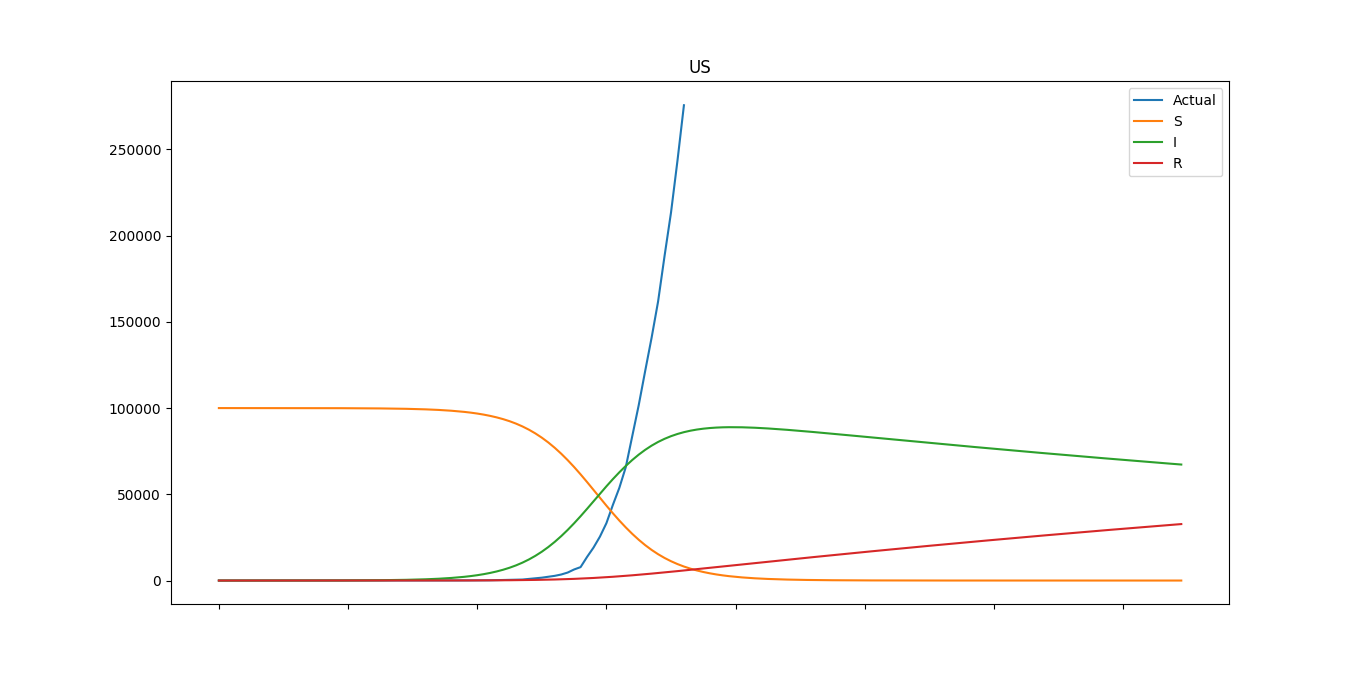
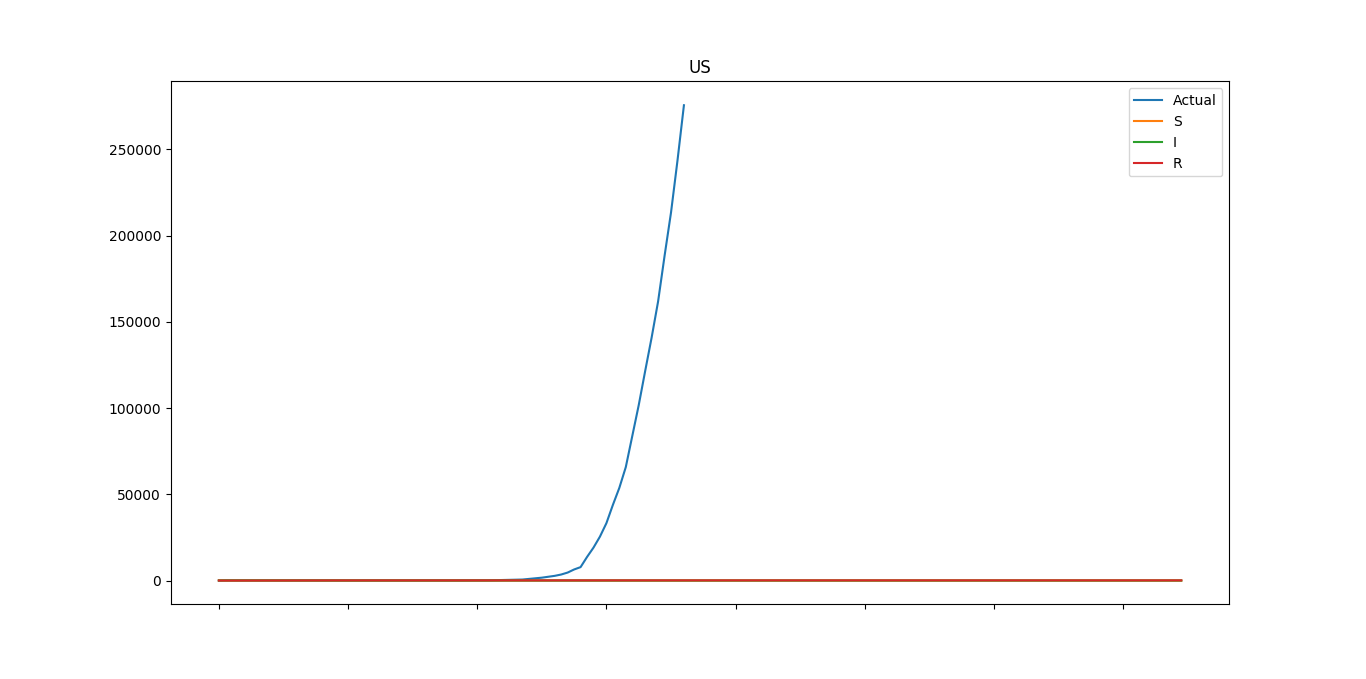
updated displaying graphs

diff --git a/covid_sim.py b/covid_sim.py
@@ -39,49 +39,40 @@ def start():
     PATH_TIME_CONFIRMED_US = os.path.join(PATH_BASE,'time_series_covid19_confirmed_US.csv')
 
     important_states = ['New York','New Jersey','Pennsylvania','California']
-    
+   
+ 
+    custom_trend_us_county(PATH_TIME_CONFIRMED_US,'Bucks','Pennsylvania','Confirmed')
+
 
     custom_trend_us(PATH_TIME_CONFIRMED_US,important_states,'Confirmed')
+    
+    custom_new_us(PATH_TIME_CONFIRMED_US,important_states)
 
     ##Extrapolation data uninformative - replacing with sir_learner
-    custom_extrapolate_us(PATH_TIME_CONFIRMED_US,important_states)
-
+    #custom_extrapolate_us(PATH_TIME_CONFIRMED_US,important_states)
+    
     custom_deathrate_global(PATH_TIME_CONFIRMED_GLOBAL,PATH_TIME_DEATHS_GLOBAL)
 
     custom_zero_global(PATH_TIME_CONFIRMED_GLOBAL)
 
-    custom_new_us(PATH_TIME_CONFIRMED_US,important_states)
-
     custom_map_us(PATH_TIME_CONFIRMED_US)
     
-    custom_fit_us(PATH_TIME_CONFIRMED_US,OUTPUT_BASE, important_states)
+    #custom_fit_us(PATH_TIME_CONFIRMED_US,OUTPUT_BASE, important_states)
+def custom_trend_us_county(path,county,state,label):
+    '''
+    Shows trend over time for one county
+    '''
+    x,y = parse_time_us_county(path,county,state)
+    graph_trend(x,y,f"{county}, {state}",label)
 
 def custom_trend_us(path,states,label):
     '''
-    Shows trend over time
+    Shows trend over time for various states
     '''
     for state in states:
         x,y = parse_time_us(path,state)
-        y = [v for v in y if v>100]
-        x = x[-len(y):]
-        dy = [0]+[y[i]-y[i-1] for i,v in enumerate(y) if i>0]
-        dy2 = [0]+[dy[i]-dy[i-1] for i,v in enumerate(dy) if i>0]
+        graph_trend(x,y,state,label)
 
-        _, ax = plt.subplots()
-        ax.plot(x,y,label=label,c=numpy.random.rand(3,),linewidth=2)
-        ax.plot(x,dy,label=f'Newly {label}',c=numpy.random.rand(3,),linewidth=2)
-        ax.plot(x,dy2,label=f'{label} Trend',c=numpy.random.rand(3,),linewidth=2)
-        
-        ax.plot(x,[0]*len(x),c='black',label='0',linewidth=1) #zero line
-        ax.legend()
-        ax.set_xlabel('Date')
-        axFormatDate(ax)
-        ax.set_ylabel('Number')
-        ax.set_title(f'{label} Trend in {state}')
-        #ax.set_yscale('log')
-
-        plt.show()
-    
 def custom_deathrate_global(path,deathpath):
     '''
     Creates a markdown graph which shows the current deathrate by country
@@ -203,10 +194,12 @@ def custom_zero_global(path,min_cases=100):
     plt.show()
 
 
-def custom_extrapolate_us(path,important_states,duration = 90,func=logistic, bounds=([0.1,-1,12], [0.7,1,duration])):
+def custom_extrapolate_us(path,important_states,duration = 90):
     '''
     Extrapolates the current data to fit func
     '''
+    bounds = ([0.1,-1,12], [0.7,1,duration])
+
     _, ax = plt.subplots()
     for i,state in enumerate(important_states):
         x,y = parse_time_us(path,state)
@@ -215,11 +208,11 @@ def custom_extrapolate_us(path,important_states,duration = 90,func=logistic, bou
         x = range(len(y))
         ax.plot(xd,y,c=numpy.random.rand(3,),label=state,linewidth=3)
 
-        params,formula = best_fit(x,y,func,bounds,state)
+        params,formula = best_fit(x,y,logistic,bounds,state)
         
         xd = get_date_range(xd[0],duration)
         x = range(duration)
-        y = func(x,*params)
+        y = logistic(x,*params)
         
         y = [i for i in y if i<=100]
         x = x[0:len(y)]
@@ -242,10 +235,8 @@ def custom_extrapolate_us(path,important_states,duration = 90,func=logistic, bou
 
 
 
-
-
-
-
+def parse_time_us_county(path,county,state):
+    return parse_time(path,county,5,11,value2=state,value2_idx=6)
 
 def parse_time_us(path,state):
     return parse_time(path,state,6,11)
@@ -253,7 +244,7 @@ def parse_time_us(path,state):
 def parse_time_global(path,country):
     return parse_time(path,country,1,4)
 
-def parse_time(path,value,value_idx,date_start_idx):
+def parse_time(path,value,value_idx,date_start_idx,value2=None,value2_idx=None):
     '''
     parse a time series file from the COVID-19 repo
     '''
@@ -269,12 +260,13 @@ def parse_time(path,value,value_idx,date_start_idx):
         reader = csv.reader(f, delimiter=",")
         for _, row in enumerate(reader):
             if(row[value_idx] == value):
-                new = row[date_start_idx:]
-                try:
-                    y = [int(a or '0') + int(b or '0') for a,b in zip(y, new)]
-                except:
-                    print(new)
-                    raise ValueError('Could not parse values')
+                if(value2 is None or row[value2_idx] == value2):
+                    new = row[date_start_idx:]
+                    try:
+                        y = [int(a or '0') + int(b or '0') for a,b in zip(y, new)]
+                    except:
+                        print(new)
+                        raise ValueError('Could not parse values')
         return x,y
 
 
@@ -366,6 +358,30 @@ def us_map(states,title = '',text_top=5,formatter = '{0:.3f}'):
     plt.show()
 
 
+def graph_trend(x,y,location,label,threshold=100):
+    '''
+    Shows data, first, and second derivative
+    '''
+    y = [v for v in y if v>threshold]
+    x = x[-len(y):]
+    dy = [0]+[y[i]-y[i-1] for i,v in enumerate(y) if i>0]
+    dy2 = [0]+[dy[i]-dy[i-1] for i,v in enumerate(dy) if i>0]
+
+    _, ax = plt.subplots()
+    ax.plot(x,y,label=label,c=numpy.random.rand(3,),linewidth=2)
+    ax.plot(x,dy,label=f'Newly {label}',c=numpy.random.rand(3,),linewidth=2)
+    ax.plot(x,dy2,label=f'{label} Trend',c=numpy.random.rand(3,),linewidth=2)
+    
+    ax.plot(x,[0]*len(x),c='black',label='0',linewidth=1) #zero line
+    ax.legend()
+    ax.set_xlabel('Date')
+    axFormatDate(ax)
+    ax.set_ylabel('Number')
+    ax.set_title(f'{label} Trend in {location}')
+    #ax.set_yscale('log')
+
+    plt.show()
+    
 def cmap(value,mn,mx):
     value = numpy.abs(value)
     mn = numpy.abs(mn)
